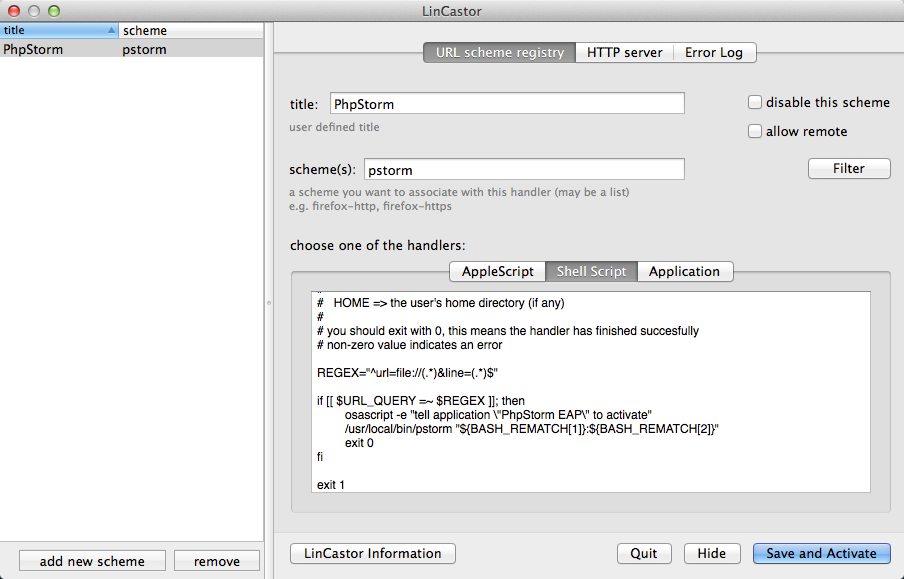
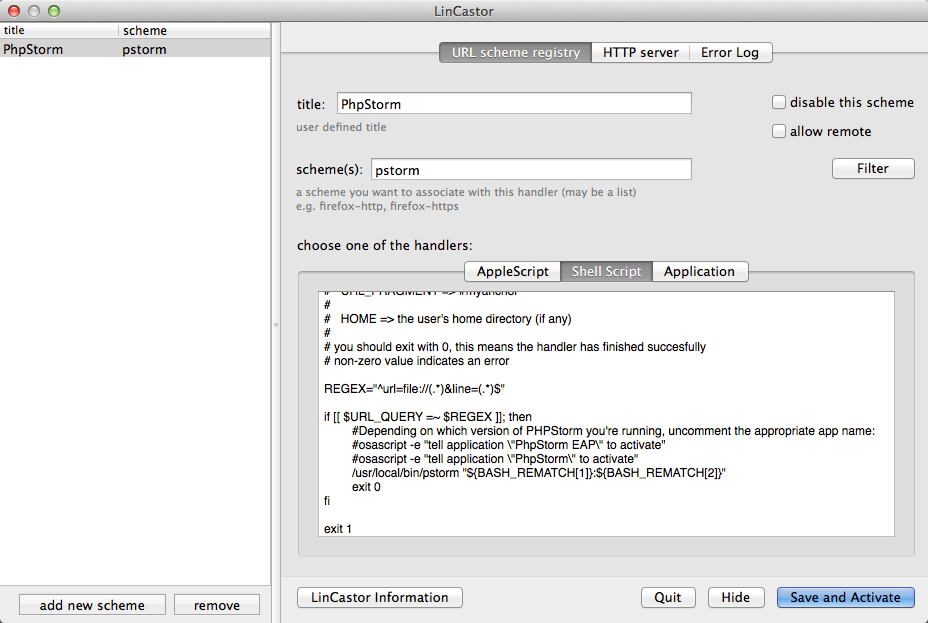
Updating LinCastor configuration
1. updating screenshot to include latest PR merge
2. adding instructions for replacement strings in the url

diff --git a/LinCastor.md b/LinCastor.md
@@ -7,6 +7,9 @@ Since PhpStormProtocol doesn't work as expected on OS X 10.9 (Mavericks), then I
 3. create new protocol handler using configuration from below:
 ![LinCastor Configuration](LinCastorConfig.png)
 4. specify `pstorm://open/?url=file://%f&line=%l` in your debugger configuration (e.g. in the `xdebug.file_link_format` setting in the `php.ini`)
+5. you maybe need to use different file and line placeholders (instead of `%f` and `%l`) depending on which debugger you're configuring:
+ * `%F` and `%L` - for [In-Portal Debugger](http://www.in-portal.org/)
+ * `%file` and `%line` - for [Nette Debugger](http://pla.nette.org/en/how-open-files-in-ide-from-debugger)
 
 ## LinCastor Shell Script
 
